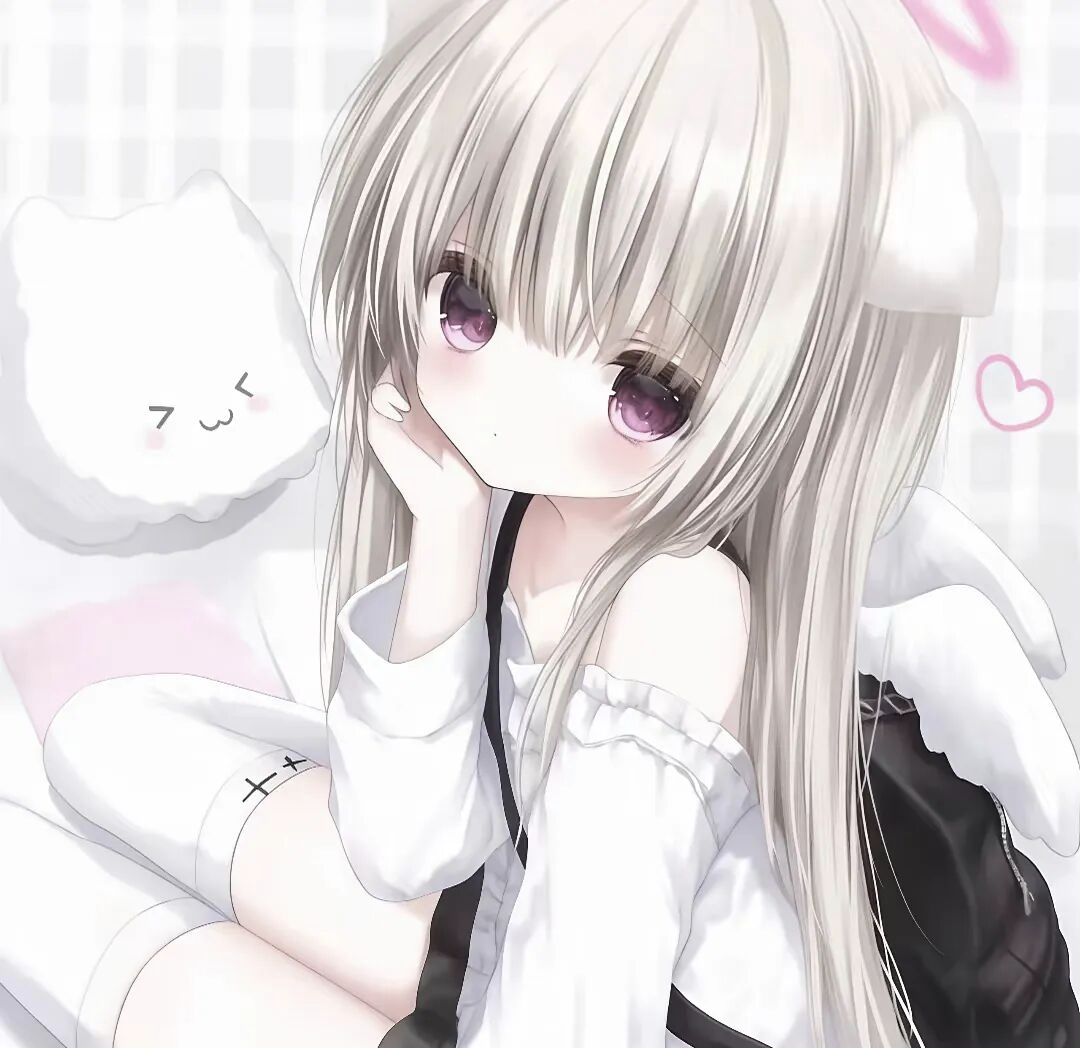
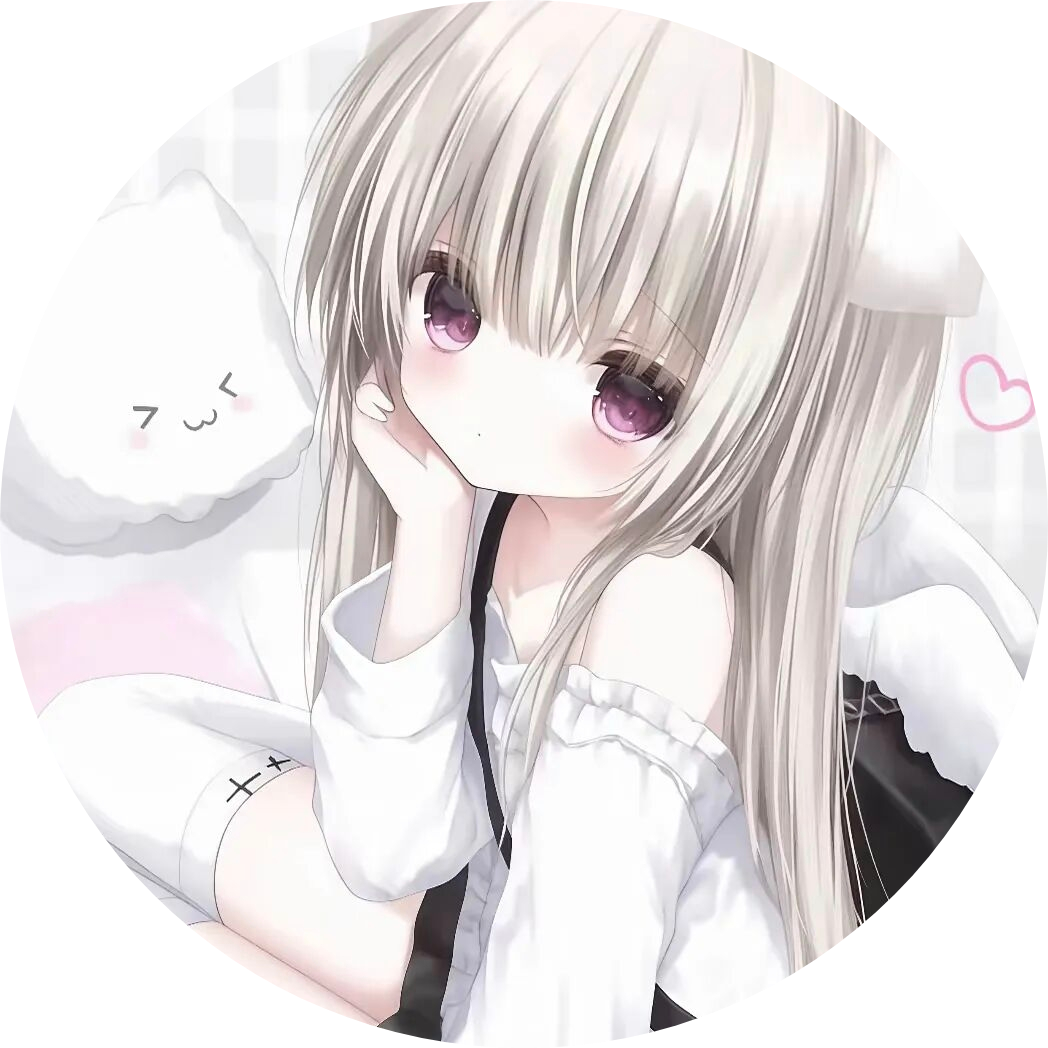
fix：修复blog首页图片加载问题

diff --git a/app/actions.js b/app/actions.js
@@ -5,24 +5,42 @@ import prisma from "@/lib/db";
 import { revalidatePath } from "next/cache";
 
 export async function createMessage(formData) {
-  const user = await currentUser();
+  try {
+    const user = await currentUser();
 
-  if (!user) {
-    throw new Error("Unauthorized");
+    if (!user) {
+      return {
+        ok: false,
+        message: "Please sign in before leaving a message.",
+      };
+    }
+
+    const message = String(formData.get("message") ?? "").trim();
+
+    if (!message) {
+      return {
+        ok: false,
+        message: "Please enter something.",
+      };
+    }
+
+    await prisma.message.create({
+      data: {
+        message,
+        userId: user.id,
+        userName: user.username || user.firstName,
+        userImg: user.imageUrl,
+      },
+    });
+
+    revalidatePath("/message");
+
+    return { ok: true };
+  } catch (error) {
+    console.error("Failed to create message:", error);
+    return {
+      ok: false,
+      message: "Failed to send message. Please try again later.",
+    };
   }
-
-  // if (!formData.get("message")) {
-  //   return { message: "Please enter something!" };
-  // }
-
-  await prisma.message.create({
-    data: {
-      message: formData.get("message"),
-      userId: user.id,
-      userName: user.username || user.firstName,
-      userImg: user.imageUrl,
-    },
-  });
-
-  revalidatePath("/message");
 }

diff --git a/app/global.css b/app/global.css
@@ -37,21 +37,21 @@
   } */
   /* Default (dark) theme variables */
   :root {
-    --background: 188.6 22.6% 6.1%;
-    --foreground: 180 1.7% 76.5%;
-    --card: 188.6 22.6% 6.1%;
-    --card-foreground: 180 1.7% 76.5%;
-    --popover: 188.6 22.6% 6.1%;
-    --popover-foreground: 180 1.7% 76.5%;
+    --background: 0 0% 0%;
+    --foreground: 0 0% 98%;
+    --card: 0 0% 0%;
+    --card-foreground: 0 0% 98%;
+    --popover: 0 0% 0%;
+    --popover-foreground: 0 0% 98%;
     --muted: 0 0% 8.5%;
     --muted-foreground: 0 0% 55%;
-    --primary: 180 1.7% 76.5%;
-    --primary-foreground: 186.7 22% 8%;
+    --primary: 0 0% 98%;
+    --primary-foreground: 0 0% 8%;
     --secondary: 0 0% 94.9% / 5%;
 
     --secondary-foreground: 210 40% 98%;
     --accent: 0 0% 14.5%;
-    --accent-foreground: 180 1.7% 76.5%;
+    --accent-foreground: 0 0% 98%;
     --destructive: 0 62.8% 30.6%;
     --destructive-foreground: 210 40% 98%;
 

diff --git a/components/Blogs.jsx b/components/Blogs.jsx
@@ -14,12 +14,15 @@ export default function Blogs({ blogs }) {
                 href={`/blog/${blog.slug}`}
                 className="relative aspect-[48/27] w-full sm:w-80 rounded-2xl shrink-0"
               >
-                <Image
-                  src={blog.image}
-                  alt="Blog image"
-                  fill
-                  className="object-cover "
-                />
+                {blog.image ? (
+                  <Image
+                    src={blog.image}
+                    alt="Blog image"
+                    fill
+                    unoptimized
+                    className="rounded-2xl object-cover"
+                  />
+                ) : null}
               </div>
 
               <div className="flex flex-col justify-between flex-grow p-4">

diff --git a/components/MessageForm.jsx b/components/MessageForm.jsx
@@ -15,11 +15,16 @@ export default function MessageForm({ children }) {
     <form
       action={async (formData) => {
         try {
-          await createMessage(formData);
-          setText("");
-          toast.success("Message sent successfully");
-        } catch (error) {
-          toast.error(error.message || "Failed to send message");
+          const result = await createMessage(formData);
+
+          if (result?.ok) {
+            setText("");
+            toast.success("Message sent successfully");
+          } else {
+            toast.error(result?.message || "Failed to send message");
+          }
+        } catch {
+          toast.error("Failed to send message");
         }
       }}
     >

diff --git a/components/RecentUpdate.jsx b/components/RecentUpdate.jsx
@@ -18,12 +18,15 @@ export default function RecentUpdate({ blogs }) {
                   href={`/blog/${blog.slug}`}
                   className="relative aspect-[240/135] w-full overflow-hidden rounded-2xl"
                 >
-                  <Image
-                    src={blog.image}
-                    alt="Blog image"
-                    fill
-                    className="object-cover transition duration-300 ease-out group-hover:brightness-110"
-                  />
+                  {blog.image ? (
+                    <Image
+                      src={blog.image}
+                      alt="Blog image"
+                      fill
+                      unoptimized
+                      className="object-cover transition duration-300 ease-out group-hover:brightness-110"
+                    />
+                  ) : null}
                 </div>
 
                 <div className="recent-update-overlay absolute right-0 bottom-0 left-0 p-4 rounded-lg backdrop-blur-md bg-black/60 dark:bg-black/70">

diff --git a/lib/project.js b/lib/project.js
@@ -1,6 +1,10 @@
 import { client } from "./sanity";
 
 export async function getProjects() {
+  if (!process.env.NEXT_PUBLIC_SANITY_PROJECT_ID && !process.env.NEXT_PUBLIC_SANITY_ID) {
+    return [];
+  }
+
   const query = `*[_type == 'project'] | order(_updatedAt desc) {
         title,
           _id,
@@ -10,7 +14,11 @@ export async function getProjects() {
           "imageUrl": image.asset->url
     }`;
 
-  const projects = await client.fetch(query, {}, { cache: "no-store" });
-
-  return projects;
+  try {
+    const projects = await client.fetch(query, {}, { cache: "no-store" });
+    return Array.isArray(projects) ? projects : [];
+  } catch (error) {
+    console.error("Failed to load projects:", error);
+    return [];
+  }
 }

diff --git a/app/message/page.js b/app/message/page.js
@@ -10,8 +10,16 @@ import Messages from "@/components/Messages";
 import MessageDescription from "@/components/MessageDescription";
 import Image from "next/image";
 
+export const dynamic = "force-dynamic";
+
 export default async function MessagePage() {
-  const user = await currentUser();
+  let user = null;
+
+  try {
+    user = await currentUser();
+  } catch (error) {
+    console.error("Failed to load Clerk user:", error);
+  }
 
   return (
     <div className="flex flex-col w-full gap-20 lg:w-2/3">

diff --git a/app/project/page.js b/app/project/page.js
@@ -4,6 +4,8 @@ import Description from "@/components/Description";
 import MotionDivWrapper from "@/components/MotionDivWrapper";
 import { getProjects } from "@/lib/project";
 
+export const dynamic = "force-dynamic";
+
 export default async function ProjectPage() {
   const projects = await getProjects();
 
@@ -15,7 +17,13 @@ export default async function ProjectPage() {
       className="flex flex-col gap-10"
     >
       <Description page="Projects" />
-      <Projects projects={projects} />
+      {projects.length ? (
+        <Projects projects={projects} />
+      ) : (
+        <p className="text-sm text-muted-foreground">
+          Project data is temporarily unavailable.
+        </p>
+      )}
     </MotionDivWrapper>
   );
 }

diff --git a/components/TechStackRadar.jsx b/components/TechStackRadar.jsx
@@ -104,7 +104,7 @@ function createOption(config, echarts) {
       center: ["50%", "56%"],
       radius: "64%",
       splitNumber: 5,
-      name: { show: false },
+      axisName: { show: false },
       indicator: config.indicators,
       splitArea: {
         show: true,
@@ -123,10 +123,9 @@ function createOption(config, echarts) {
         type: "radar",
         symbol: "circle",
         symbolSize: 6,
-        hoverAnimation: false,
         silent: true,
         lineStyle: { width: 2.5 },
-        emphasis: { disabled: true },
+        emphasis: { disabled: true, scale: false },
         data: [
           {
             value: config.values,

diff --git a/components/ThemeToggle.jsx b/components/ThemeToggle.jsx
@@ -2,6 +2,7 @@
 
 import { useEffect, useState } from "react";
 import { useTheme } from "next-themes";
+import { MoonStar, SunMedium } from "lucide-react";
 
 export default function ThemeToggle() {
   const { theme, setTheme } = useTheme();
@@ -24,9 +25,9 @@ export default function ThemeToggle() {
       className="flex items-center justify-center w-8 h-8 p-1 rounded-md hover:bg-muted/10 transition"
     >
       {isDark ? (
-        <i className="iconfont icon-taiyang theme-toggle-icon text-[21px] leading-none" aria-hidden="true" />
+        <SunMedium className="size-5" aria-hidden="true" />
       ) : (
-        <i className="iconfont icon-yueliang theme-toggle-icon text-[21px] leading-none" aria-hidden="true" />
+        <MoonStar className="size-5" aria-hidden="true" />
       )}
     </button>
   );

diff --git a/app/blog/[slug]/page.js b/app/blog/[slug]/page.js
@@ -36,8 +36,9 @@ export default async function Blog({ params }) {
               <Image
                 src={image}
                 alt={title || ""}
-                className="object-cover"
                 fill
+                unoptimized
+                className="object-cover"
               />
             </div>
           )}

diff --git a/components/Avatar.jsx b/components/Avatar.jsx
@@ -5,6 +5,8 @@ import Link from "next/link";
 import avatarImg from "@/public/images/avatar.png";
 
 export default function Avatar({ page }) {
+  const isHomePage = page === "/";
+
   return (
     <div className="flex items-center justify-start col-span-1">
       <Link href="/">
@@ -18,6 +20,7 @@ export default function Avatar({ page }) {
             width={60}
             alt="avatar"
             className={`duration-1000 rounded-full opacity-60 hover:opacity-90 ${page == "/" ? " translate-y-20 scale-150" : ""}`}
+            priority={isHomePage}
             unoptimized
           />
         </div>